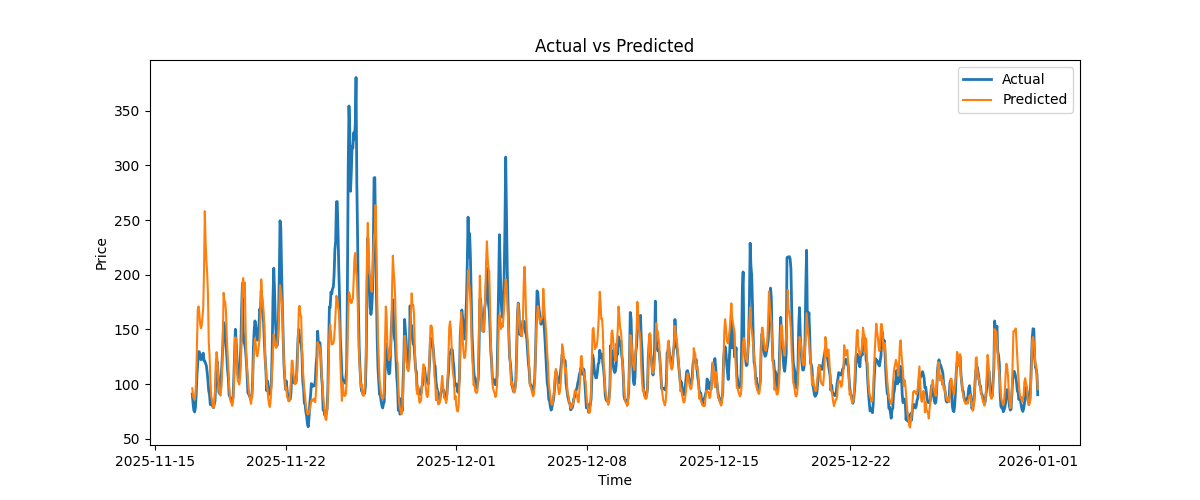
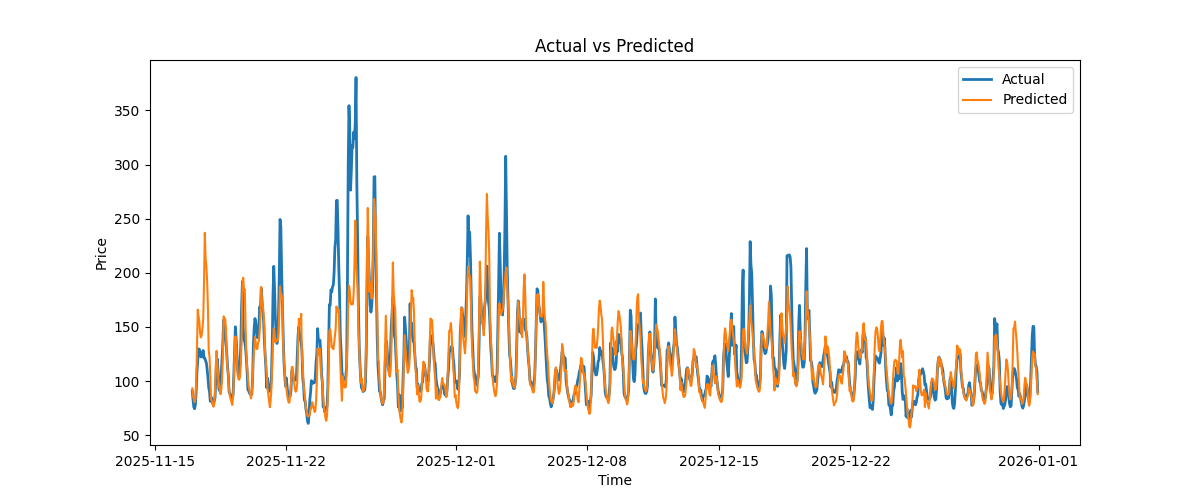
Initias

diff --git a/src/feature.py b/src/feature.py
@@ -1,4 +1,3 @@
-from .data import reshape_df
 import pandas as pd
 import numpy as np
 from sklearn.preprocessing import RobustScaler
@@ -23,12 +22,13 @@ def calc_ramps(df, columns = ['demand_forecast_mwh','solar_forecast_mwh','net_ex
             df[f'{col}_ramp_curr_168'] = df[col] - df[f'{col}_lag_168']
 
     return df    
-def cross_intreactions(df,columns = ['demand_forecast_mwh','solar_forecast_mwh','net_exchange_forecast_mwh']):
+
+'''  def cross_intreactions(df,columns = ['demand_forecast_mwh','solar_forecast_mwh','net_exchange_forecast_mwh']):
     df = df.copy()
     for i in range(len(columns)):
         for j in range(i+1,len(columns)):
             df[f'{columns[i]} x {columns[j]}'] = df[columns[i]] * df[columns[j]]
-    return df        
+    return df'''   
 
     
 def get_calendar_features(df : pd.DataFrame):
@@ -117,25 +117,27 @@ def add_rolling_stats(df : pd.DataFrame, target_col : str = 'price_eur_mwh'):
 
     return df_rolling_stats
 
-def scale_features(X_train : np.ndarray, X_test : np.ndarray):
+def scale_features(X_train : pd.DataFrame, X_test : pd.DataFrame):
     '''
     Robust Scaling features
     '''
+    num_cols = X_train.select_dtypes(include=['number']).columns
     scaler = RobustScaler()
-    X_train_scaled = scaler.fit_transform(X_train)
-    X_test_scaled = scaler.transform(X_test)
-    return X_train_scaled, X_test_scaled
+    X_train[num_cols] = scaler.fit_transform(X_train[num_cols])
+    X_test[num_cols] = scaler.transform(X_test[num_cols])
+    return X_train, X_test
+        
 
-def scale_target(y_train : np.ndarray):
+def scale_target(y_train : pd.DataFrame):
     '''
-    Robust Scaling target + asing transformation
+    Robust Scaling target + asinh transformation
     '''
     scaler = RobustScaler()
     y_train_scaled = scaler.fit_transform(y_train)
     y_train_scaled = np.arcsinh(y_train_scaled)
     return y_train_scaled,scaler
 
-def inverse_scale_target(y_pred : np.ndarray,scaler : RobustScaler):
+def inverse_scale_target(y_pred : np.ndarray, scaler : RobustScaler):
     '''
     Just inversing back to a normal scale
     '''
@@ -143,16 +145,6 @@ def inverse_scale_target(y_pred : np.ndarray,scaler : RobustScaler):
     y = scaler.inverse_transform(y_pred)
     return y
     
-
-def split_nums_cats(df):
-    float_cols = df.select_dtypes(include=['float64']).columns
-    nums = [col for col in float_cols if not col.startswith('fourier')]
-    cats_fourier = [col for col in df.columns if col not in nums]
-        
-    df_num = df[nums]    
-    df_cat_fourier =df[cats_fourier + ['price_eur_mwh']]  
-    
-    return df_num, df_cat_fourier
 
 def corr_filtering(df, threshold = 0.95):
     X = df.drop('price_eur_mwh', axis=1)
@@ -172,25 +164,26 @@ def corr_filtering(df, threshold = 0.95):
 
     return to_drop
    
-def get_train_test_num_cat_arr(df_train_num, df_train_cat,df_test_num,df_test_cat):
-    X_trainNUM, y_trainNUM = reshape_df(df_train_num)
-    X_trainCAT, y_trainCAT = reshape_df(df_train_cat)
-    X_testNUM, y_testNUM = reshape_df(df_test_num)
-    X_testCAT, y_testCAT = reshape_df(df_test_cat)
-    y_train = y_trainNUM
-    y_test = y_testNUM
+
+
+def cross_temp(df : pd.DataFrame, interactions = ['demand_forecast_mwh','solar_forecast_mwh','net_exchange_forecast_mwh','price_eur_mwh_lag_24','price_eur_mwh_lag_168'], n_neighbours = 3):
+    '''
+    Introducing cross-temporal and cross-feature interaction with default window 3: [h-3,h+3]
+    '''
+    df=df.copy()
+
+    new_cols = {}
+    window = n_neighbours
     
-    return X_trainNUM, X_trainCAT, y_train, X_testNUM, X_testCAT, y_test
+    for h in range(24):
+        for offset in range(-window,window+1):
 
-
-def combine_num_cat_arr(X_NUM,X_CAT):
-    
-    n_days_train = X_NUM.shape[0] 
-    x_num_features = X_NUM.shape[1]//24
-    x_cat_features = X_CAT.shape[1]//24
-
-    x_num_3d = X_NUM.reshape(n_days_train,24,x_num_features)
-    x_cat_3d = X_CAT.reshape(n_days_train,24, x_cat_features)
-    X = np.concatenate([x_num_3d,x_cat_3d],axis=2)
-    X = X.reshape(n_days_train, 24*(x_num_features + x_cat_features))
-    return X 
+            neighbour_h = h + offset 
+            if neighbour_h<0 or neighbour_h>23: 
+                continue
+            for f1 in range(len(interactions)):
+                for f2 in range(f1 ,len(interactions)): 
+                    if neighbour_h < h  or (offset==0 and f1==f2):
+                        continue
+                    new_cols[f'{interactions[f1]}_h{h:02d}x{interactions[f2]}_h{neighbour_h:02d}'] = df[f'{interactions[f1]}_h{h:02d}'] * df[f'{interactions[f2]}_h{neighbour_h:02d}']#
+    return pd.concat([df,pd.DataFrame(new_cols)],axis=1)    

diff --git a/src/model.py b/src/model.py
@@ -4,12 +4,12 @@ from .evaluation import mean_mae,rmse
 from sklearn.linear_model import ElasticNet
 from sklearn.feature_selection import SelectFromModel
 from sklearn.model_selection import TimeSeriesSplit
-from .feature import scale_target,inverse_scale_target,scale_features,split_nums_cats,get_train_test_num_cat_arr,combine_num_cat_arr
+from .feature import scale_target,inverse_scale_target,scale_features
 from sklearn.base import BaseEstimator
 
 
 
-def get_TimeSeriesSplit(n_splits : int = 45, test_size : int = 1*24):
+def get_TimeSeriesSplit(n_splits : int = 45, test_size : int = 1):
     tss = TimeSeriesSplit(n_splits=n_splits,test_size=test_size)
     return tss
 '''
@@ -29,10 +29,10 @@ def train_dataset_size(df : pd.DataFrame, n_days_test : int = 45):
     The last 45 days are reserved for testing, while the training set includes all data up to 45 days before the end of the dataset.
     df_train output is used for training and validation
     '''
-    df_train = df[:-n_days_test*24]
+    df_train = df[:-n_days_test]
     return df_train
 
-def tuning(df : pd.DataFrame ,alphas : list = [0.01, 0.1, 1, 10], l1_ratios : list = [0.5, 0.7, 0.9], days_for_test_left = 45, n_days_valid=45, test_size=1*24):
+def tuning(df : pd.DataFrame ,alphas : list = [0.01, 0.1, 1, 10], l1_ratios : list = [0.5, 0.7, 0.9], days_for_test_left = 45, n_days_valid=45, test_size=1):
     '''
     Getting the best given hyperparameters
     '''
@@ -48,7 +48,7 @@ def tuning(df : pd.DataFrame ,alphas : list = [0.01, 0.1, 1, 10], l1_ratios : li
 
 
 
-def time_series_test(df : pd.DataFrame, alpha = 0.01, l1_ratio = 0.9, n_days_test : int = 45, test_size : int =1*24):
+def time_series_test(df : pd.DataFrame, alpha = 0.01, l1_ratio = 0.9, n_days_test : int = 45, test_size : int = 1):
     '''
     Walk-forward implementation using an expanding window with a 1-day test size over a 45-day evaluation period.
     '''
@@ -63,31 +63,31 @@ def time_series_test(df : pd.DataFrame, alpha = 0.01, l1_ratio = 0.9, n_days_tes
         train = df.iloc[train_idx]
         test = df.iloc[val_idx]
         
-        df_num_train, df_cat_fourier_train = split_nums_cats(train)
-        df_num_test, df_cat_fourier_test = split_nums_cats(test)
+        target = 'price_eur_mwh'
+        target_cols = [c for c in df.columns if c.startswith(target) and 'lag' not in c and 'x' not in c and 'ramp' not in c]
+        features = df.columns.difference(target_cols)
         
-        X_trainNUM, X_trainCAT, y_train, X_testNUM, X_testCAT, y_test = get_train_test_num_cat_arr(df_num_train, df_cat_fourier_train,df_num_test,df_cat_fourier_test)
         
-        X_train_scaled_NUM,X_test_scaled_NUM = scale_features(X_trainNUM,X_testNUM)
+        X_train = train[features].copy()
+        y_train = train[target_cols]
 
-        
-        X_train_scaled = combine_num_cat_arr(X_train_scaled_NUM,X_trainCAT)
-        X_test_scaled = combine_num_cat_arr(X_test_scaled_NUM,X_testCAT)
-        
+        X_test = test[features].copy()
+        y_test = test[target_cols]
 
-        
+
+
+        X_train_scaled, X_test_scaled = scale_features(X_train,X_test)  
         y_train_scaled,scaler = scale_target(y_train)
 
         regs,selectors = train_models_filtering(X_train_scaled,y_train_scaled,alpha = alpha, l1_ratio=l1_ratio)
-            
-    
+        
         y_pred_scaled = predict_filtered(regs,selectors,X_test_scaled)
         y_pred = inverse_scale_target(y_pred_scaled,scaler)
     
      
         test_predictions.append(y_pred)
         test_true_values.append(y_test)
-        timestamps.append(test.index)
+        timestamps.append(pd.date_range(start = test.index[0],periods=24,freq='h'))
     
     y_all_preds = np.concatenate(test_predictions)
     y_true_test=np.concatenate(test_true_values)
@@ -99,7 +99,7 @@ def time_series_test(df : pd.DataFrame, alpha = 0.01, l1_ratio = 0.9, n_days_tes
     return y_true_test, y_all_preds, test_timestamps
 
 
-def predict_filtered(models, selectors, X_test : np.ndarray):
+def predict_filtered(models, selectors, X_test : pd.DataFrame):
     preds = []
     for h in range(24):
         X_selected=selectors[h].transform(X_test)
@@ -108,7 +108,7 @@ def predict_filtered(models, selectors, X_test : np.ndarray):
     y_pred = np.column_stack(preds)
     return y_pred
 
-def train_models_filtering(X_train : np.ndarray,y_train : np.ndarray, alpha = 0.01, l1_ratio = 0.9,threshold = 0.001):
+def train_models_filtering(X_train : pd.DataFrame,y_train : np.ndarray, alpha = 0.01, l1_ratio = 0.9,threshold = 0.001):
     '''
     Train an ElasticNet models
     '''

diff --git a/main.py b/main.py
@@ -1,8 +1,8 @@
 
 import pandas as pd
 
-from src.data import convert_to_cet, dst_handling 
-from src.feature import demand_minus_solar,get_calendar_features,add_rolling_stats,add_lags,add_fourier_features,drop_unused_features,corr_filtering,cross_intreactions,calc_ramps
+from src.data import convert_to_cet, dst_handling, reshape_24h
+from src.feature import demand_minus_solar,get_calendar_features,add_rolling_stats,add_lags,add_fourier_features,drop_unused_features,corr_filtering,cross_intreactions,calc_ramps,cross_temp
 from src.evaluation import mean_mae,rmse,save_plot_predicted,save_plot_residuals,create_result_folder,save_score,save_hyperparams
 from src.model import time_series_test,tuning
 
@@ -10,13 +10,12 @@ from src.model import time_series_test,tuning
 def main():
 
     df = pd.read_csv('data.csv')
-
     df = convert_to_cet(df)
     df = dst_handling(df)
 
     df = demand_minus_solar(df)
     df = get_calendar_features(df)
-    df = cross_intreactions(df)
+    #df = cross_intreactions(df)
     df = add_rolling_stats(df, target_col='price_eur_mwh')
     df = add_lags(df, columns=['price_eur_mwh','demand_forecast_mwh','solar_forecast_mwh','net_exchange_forecast_mwh','demand_minus_solar'], lags=[24,48,168])
     df = calc_ramps(df)
@@ -28,10 +27,14 @@ def main():
 
     #Pre-filter feautures with high corr on training subset without validation and test
     to_drop = corr_filtering(df[:-(n_days_valid + days_for_test_left)*24], threshold = 0.95)  
-    print(to_drop)
+  
     df = df.drop(to_drop, axis=1)
+
+    df = reshape_24h(df)
+    df = cross_temp(df)
+
     # Tuning, if need to find good hyperparameters
-    #models, best_model_params = tuning(df,alphas = [0.0001, 0.01,0.05, 0.1, 1], l1_ratios = [0.3, 0.4, 0.5, 0.7, 0.8, 0.9],days_for_test_left = days_for_test_left,n_days_valid=n_days_valid, test_size=1*24) # days_for_test_left needed to separate train-val from test, which gives here test set of size of 45 days 
+    #models, best_model_params = tuning(df,alphas = [0.0001, 0.01,0.05, 0.1, 1], l1_ratios = [0.3, 0.4, 0.5, 0.7, 0.8, 0.9],days_for_test_left = days_for_test_left,n_days_valid=n_days_valid, test_size=1) # days_for_test_left needed to separate train-val from test, which gives here test set of size of 45 days 
     #alpha,l1_ratio = best_model_params['alpha'],best_model_params['l1_ratio']
     #save_hyperparams(alpha, l1_ratio)
     #print(alpha,l1_ratio)
@@ -40,7 +43,7 @@ def main():
 
 
 
-    y_true_test, y_all_preds, test_timestamps = time_series_test(df,alpha=0.01,l1_ratio=0.3,n_days_test=45,test_size=1*24) # here we are running on the test set of 45 days size
+    y_true_test, y_all_preds, test_timestamps = time_series_test(df,alpha=0.01,l1_ratio=0.3,n_days_test=45,test_size=1) # here we are running on the test set of 45 days size
 
     print('Mean Absolute Error', mean_mae(y_true_test, y_all_preds))
     print('Root Mean Square Error', rmse(y_true_test, y_all_preds))

diff --git a/src/data.py b/src/data.py
@@ -32,12 +32,17 @@ def dst_handling(df : pd.DataFrame):
     df = df[~df.index.duplicated(keep="first")]
   return df
 
-def reshape_df(df : pd.DataFrame):
+def reshape_24h(df : pd.DataFrame):
     '''
     Since we produce 24 outputs at once, we should reshape accordingly
     input: df with target (hours,features + target)
-    output: X - (days, features*24); y - (days, 24)
+    output: X - (days, features*24 + 24 target hours)
     '''
+    df = df.copy()
+    day_index = pd.date_range(start = df.index[0], periods = len(df)//24, freq = 'D')
+
+    bool_cols = df.select_dtypes(include="bool").columns
+    
     if df.index[0].hour != 0:
         print('Problem with the index')
     df=df.copy()
@@ -46,6 +51,8 @@ def reshape_df(df : pd.DataFrame):
 
     df_X = df.drop(target,axis=1)
     df_y = df[target]
+    
+    features = df_X.columns.to_list()
     
     arr_X = df_X.values
     arr_y = df_y.values
@@ -56,4 +63,19 @@ def reshape_df(df : pd.DataFrame):
     X = arr_3d_X.reshape(num_days,24*n_features)
  
     y = arr_y.reshape(num_days,24)
-    return X, y
+
+    col_names_features = [f'{feature}_h{hour:02d}' for hour in range(24) for feature in features]
+
+    target_names = [f'{target}_h{hour:02d}' for hour in range(24)]
+
+    X_reshaped = pd.DataFrame(X, columns  = col_names_features)
+    y_reshaped = pd.DataFrame(y, columns  = target_names)
+    df_reshaped = pd.concat([X_reshaped,y_reshaped], axis=1)
+
+    bool_cols_hourly = [col for col in df_reshaped.columns if any(col.startswith(b) for b in bool_cols)]
+    df_reshaped[bool_cols_hourly] = df_reshaped[bool_cols_hourly].astype('bool')
+    rest = df_reshaped.columns.difference(bool_cols_hourly)
+    df_reshaped[rest] = df_reshaped[rest].astype('float64')
+    df_reshaped.index = day_index
+
+    return df_reshaped

diff --git a/README.md b/README.md
@@ -63,14 +63,13 @@ prevent leakage.
 mean and std additionally capture weekday-specific level and volatility. Applied to price 
 only.
 
-**Cross-temporal structure** — raw hourly data is reshaped to `(days, features × 24)` and the target to `(days,  24)`.
-before modelling, producing one wide row per day containing all 24 hours' feature values 
-concatenated. This means each model implicitly sees the full intraday picture — hour 13's 
-model has direct access to hour 12's and hour 14's lag, ramp, and exogenous values as 
-input columns, without any explicit feature engineering. Each of the 24 ElasticNet models 
-is trained on this same wide matrix but predicts only its own delivery hour, preserving 
-per-hour specialisation while retaining cross-hour information.
+**Cross-temporal and cross-feature structure** — raw hourly data is reshaped to `(days, features × 24 + 24 target hours)`.
+Each model implicitly sees the full intraday picture — hour 13's model has direct access to hour 12's and hour 14's lag, ramp, and exogenous values as input columns. 
+In addition, cross-temporal and cross-feature interactions were introduced — while the reshaped matrix gives each model access to other hours' values as additive inputs, a linear model cannot learn that two hours' features interactions. To address this, explicit multiplicative interaction terms were engineered:
 
+Same-hour cross-feature products (e.g. solar_h13 × demand_h13) — captures non-linear midday suppression where high solar and high demand simultaneously can decrease price more than either predicts additively.
+
+Neighbour cross-hour products (window=3) — for each hour h, products with hours h-3 to h+3 across all exogenous features and price lags. It can captures non-linear effects where demand or solar conditions at one hour influence price pressure in the hours immediately following.
 
 
 
@@ -85,7 +84,7 @@ reducing the risk of overfitting in the high-dimensional setting.
 That is why, a two-step selection is applied to keep only the most informative 
 features and reduce noise in the input space.
 
-**Step 1 — Correlation filtering** (global, applied once on training data before fitting): feature pairs with correlation above 0.95 are identified and the lower-variance feature is 
+**Step 1 — Correlation filtering** (global, applied once on training data before fitting and reshaping): feature pairs with correlation above 0.95 are identified and the lower-variance feature is 
 dropped. ElasticNet's L2 penalty handles multicollinearity well, but removing 
 near-duplicate features reduces redundancy before any model sees the data.
 
@@ -134,7 +133,7 @@ The core model is **ElasticNet** — a regularised linear regression with both L
 | **Seasonal naive** (same hour 7 days prior) | Baseline. Useful floor to beat. |
 | **LightGBM** | Strong on tabular data in general, but  was worse than ElasticNet here |
 
-Neural network were not even considered due to to computational cost, time and lack of data(24 outputs -> 731 around point to train). Instead, cross temporal and cross-feature interactions were introduced to our models, so they can benefit and mimic kind of neural net behaviour.
+Neural networks were not even considered due to to computational cost, time and lack of data(24 outputs -> 731 around point to train). Instead, cross temporal and cross-feature interactions were introduced to our models, so they can benefit and mimic kind of neural net behaviour.
 
 Rather than switching to a neural architecture, cross-temporal and cross-feature 
 interactions were introduced through feature engineering — the reshaped `(days × 
@@ -198,7 +197,7 @@ on training data inside each walk-forward iteration to prevent temporal leakage.
 |---|---|---|
 | Baseline | `24.93` | `41.17` |
 | LightGBM | `17.56` | `27.69` |
-| **24 Models: Elastic Net** | `14.37` | `24.26` |
+| **24 Models: Elastic Net** | `13.68` | `23.55` |
 
 Given the price range of roughly €60–370/MWh, the achieved MAE represents a reasonable forecast error — the model captures the dominant patterns without huge deviations u.
 
@@ -237,8 +236,9 @@ a simplified. With additional years of data,  more expressive models such as LST
 ## 8. Code Structure
 
 ```
+experiments/ # Baseline and LightGBM notebook
 src/
-  data.py         # data loading, converting to CET, DST handling
+  data.py         # data loading, converting to CET, DST handling, reshaping
   features.py     # feature engineering, scaling, target transformation, splitting
   model.py        # defines train/validation and test sizes, walk-forward loop: expanding window retraining, TimeSeriesSplit for hyperparameter tuning and evaluation
   evaluate.py     # metrics, plots
